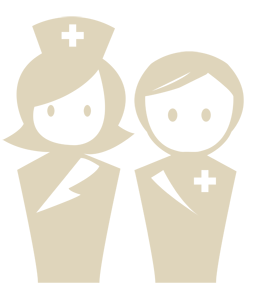
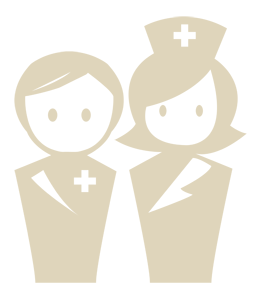
Updated the mascot image and fixed some styling issues.

diff --git a/app/assets/stylesheets/login.css b/app/assets/stylesheets/login.css
@@ -15,10 +15,9 @@ body {
   background-image:url('mascot.png');
   background-position: right bottom;
   background-repeat: no-repeat;
-  background-size: 150px;
-  margin: 120px auto 0 auto;
-  width: 800px;
-  height: 450px;
+  margin: 85px auto 0 auto;
+  width: 880px;
+  height: 490px;
 }
   
 
